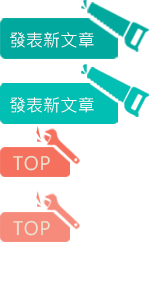
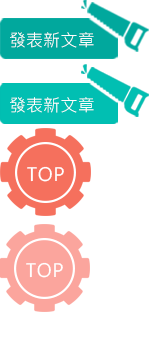
Change the image on Web ,

diff --git a/public/css/forum.css b/public/css/forum.css
@@ -23,10 +23,10 @@
 }
 .personalImage{
 	width: 80px;
-	height: 80px
-	margin: 10;
+	height: 80px;
+	margin: 10px;
 	border: 1px solid #D4D4CA;
-	border-radius: 10;
+	border-radius: 10px;
 	float: left;
 }
 .content{
@@ -144,16 +144,16 @@ textarea.commentTextArea{
 }
 #scrollTop{
 	position: fixed;
-	width: 80px;
-	height: 50px;
-	bottom: 310px;
-	left: 17px;
+	width: 92px;
+	height: 89px;
+	bottom: 8%;
+	left: 89%;
 	background-image: url(../images/forum/forum_button.png);
 	background-position: 0px -128px;
 }
 
 #scrollTop:hover{
-	background-position: 0px -192px;
+	background-position: 0px -224px;
 	cursor: pointer;
 }
 

diff --git a/public/css/perArticle.css b/public/css/perArticle.css
@@ -5,7 +5,7 @@
 .personalImage{
 	width: 80px;
 	height: 80px;
-	margin: 10;
+	margin: 10px;
 	border: 1px solid #D4D4CA;
 	border-radius: 10px;
 	float: left;
